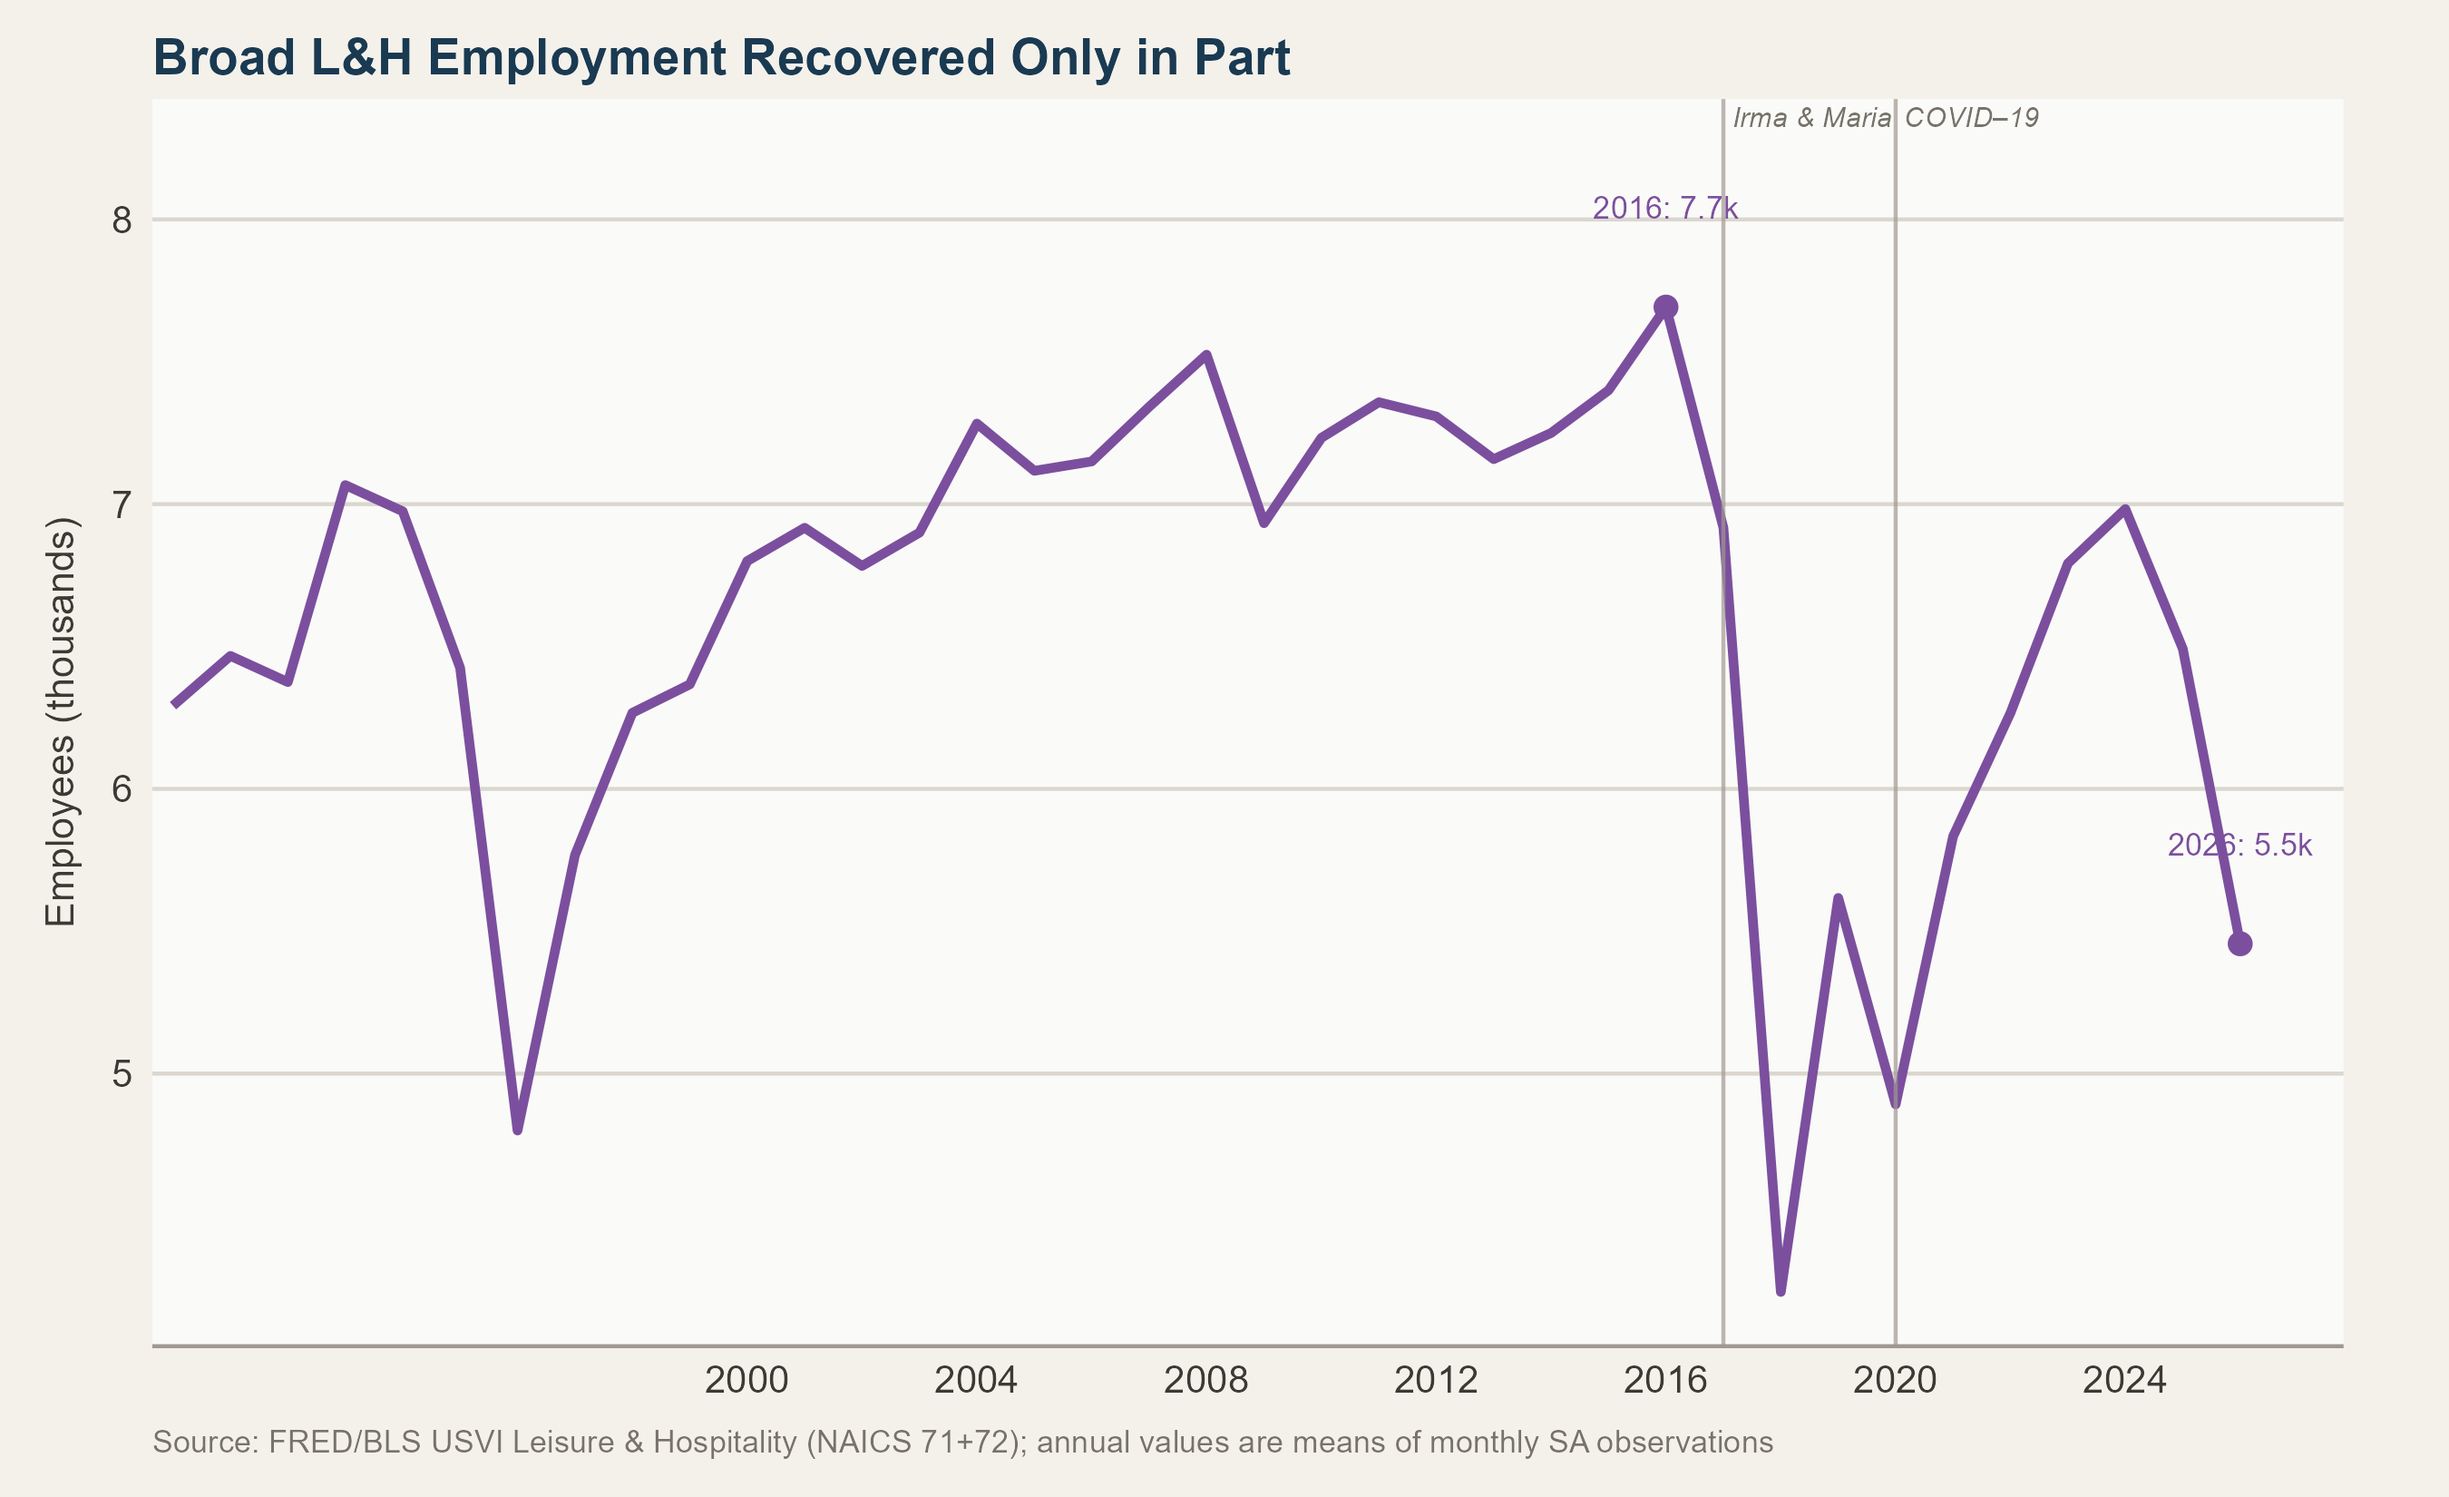
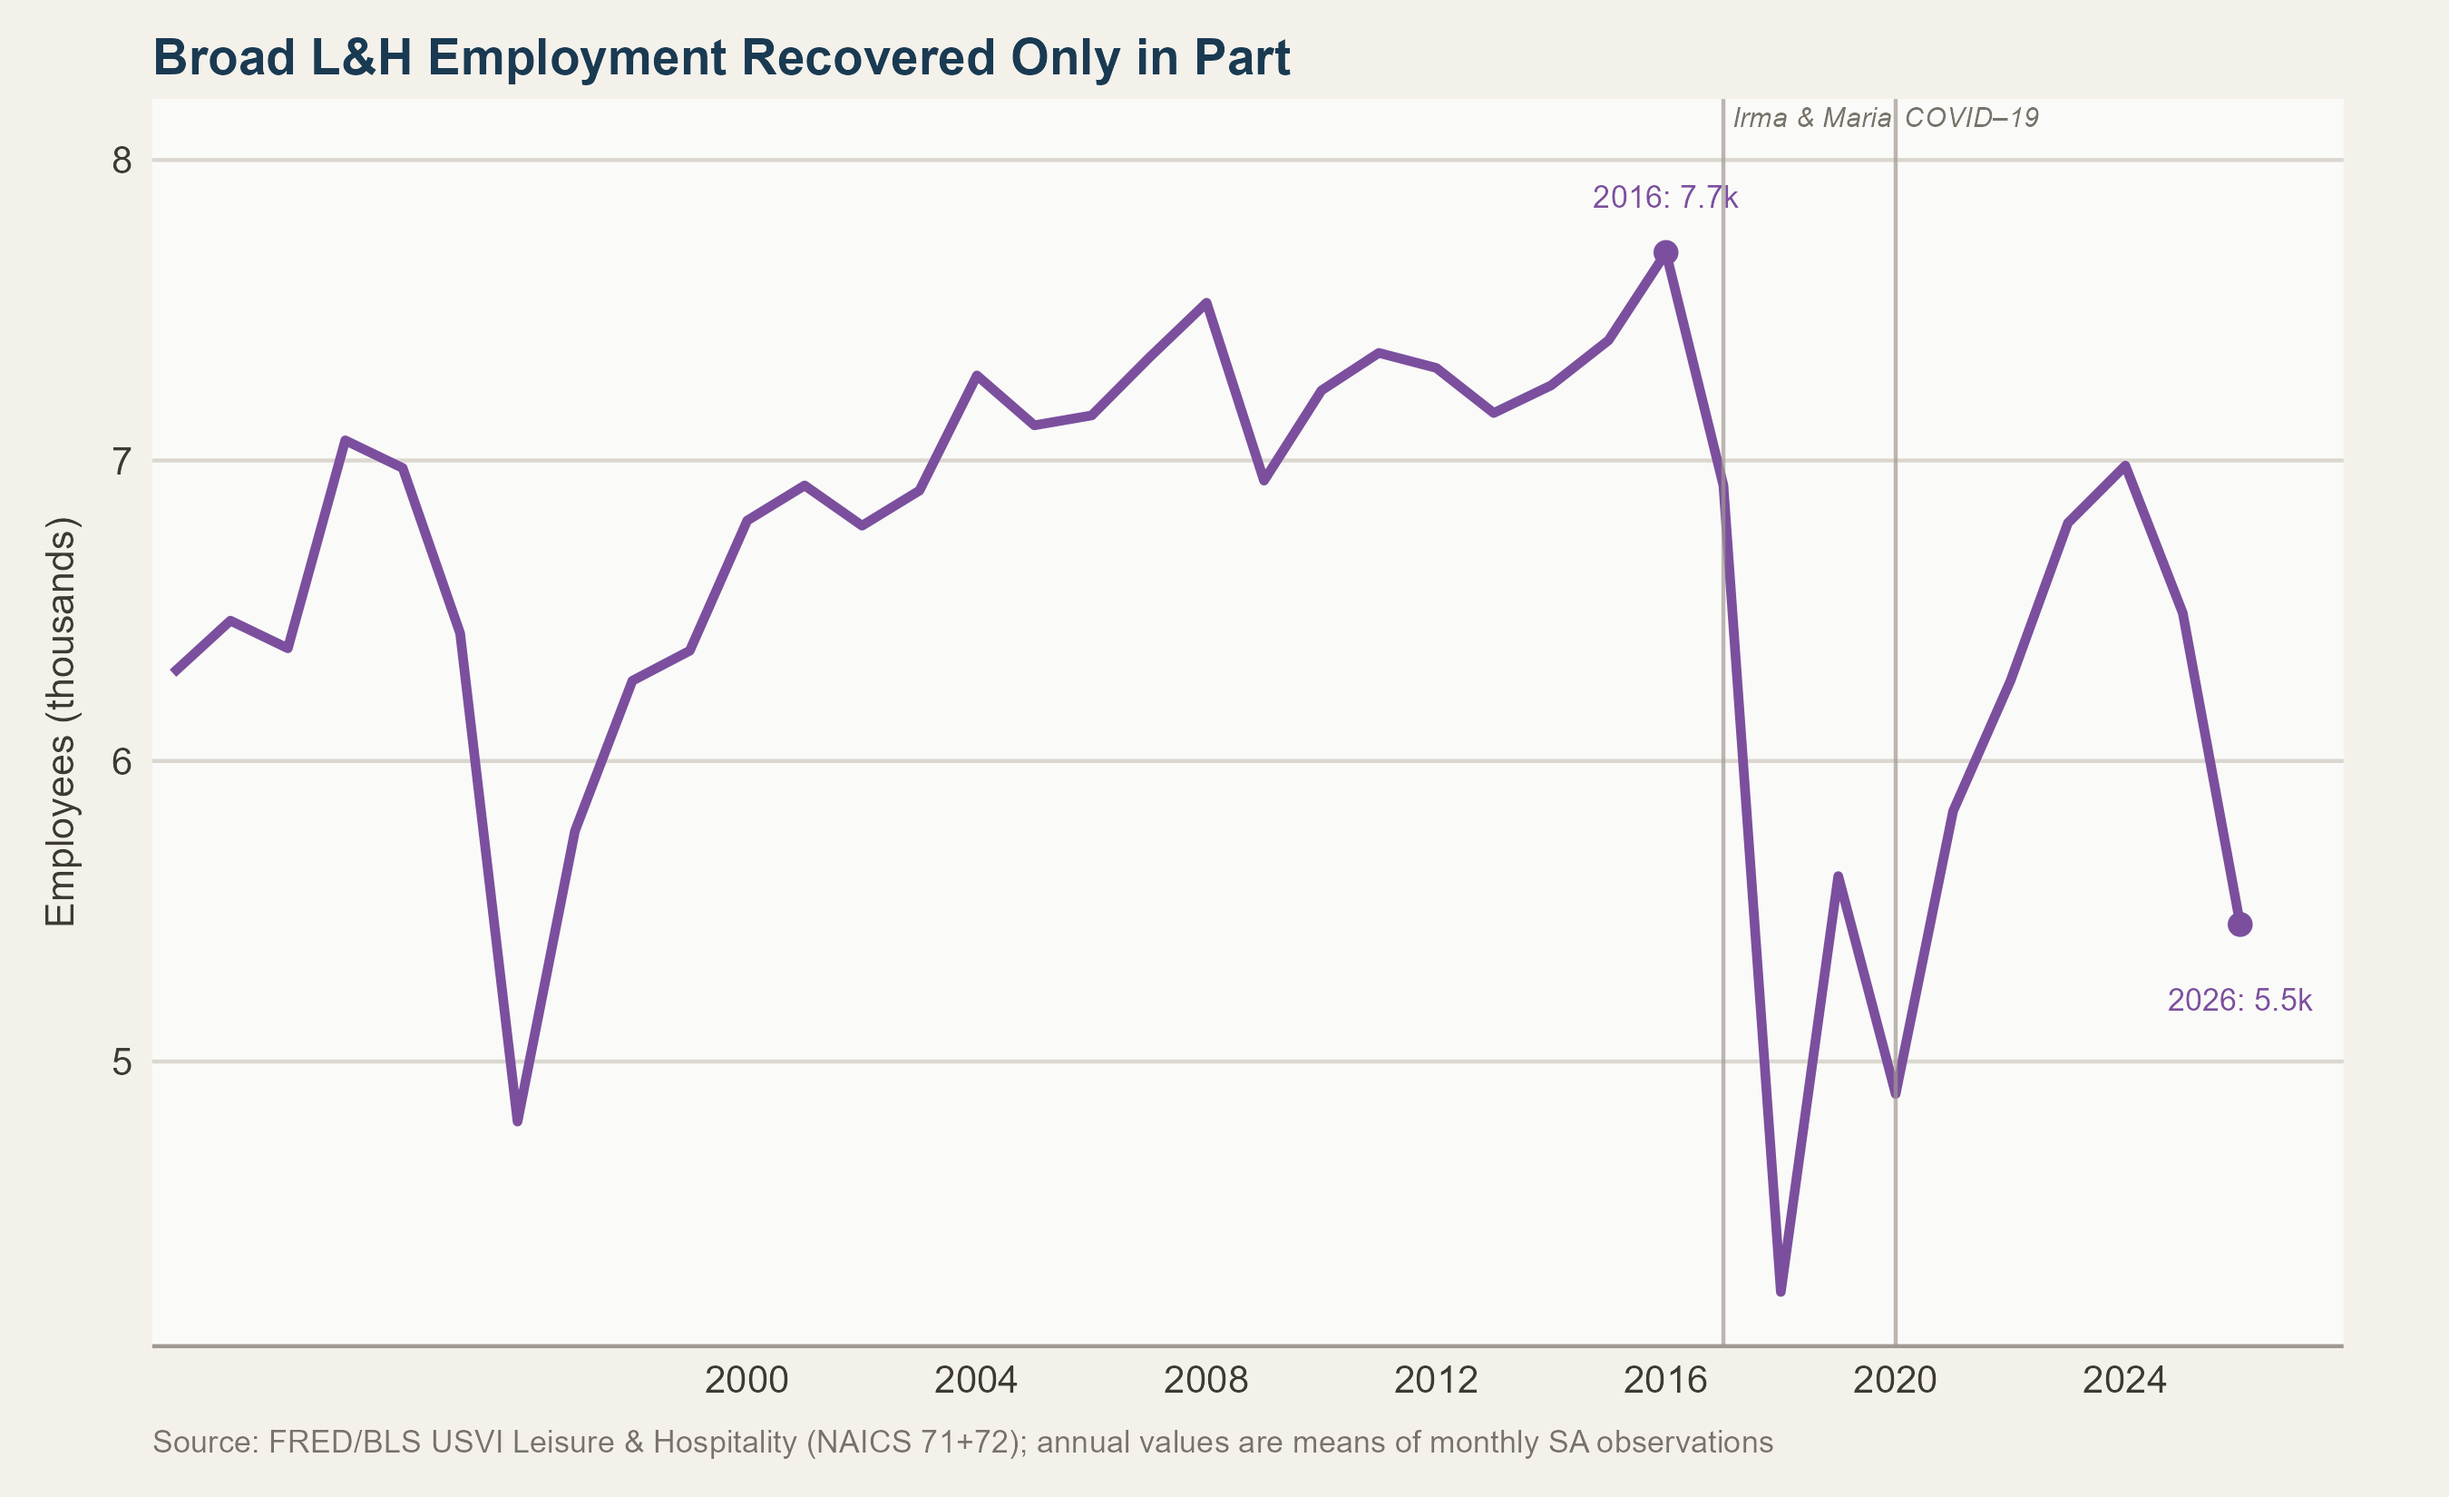
fix(plots): move plot annotations for legibility

diff --git a/docs/reports/overview.html b/docs/reports/overview.html
@@ -409,7 +409,7 @@ ul.task-list li input[type="checkbox"] {
 <section id="recovery-at-a-glance" class="level2">
 <h2 class="anchored" data-anchor-id="recovery-at-a-glance">Recovery at a glance</h2>
 <p>The figures below are indexed to 2016 = 100, except where noted. They come from different sources and have different latest observation years. They are not from a single common year.</p>
-<div id="9e49c923" class="cell" data-execution_count="2">
+<div id="53ad2d87" class="cell" data-execution_count="2">
 <div class="cell-output cell-output-display">
 <div class="scorecard-grid">
 
